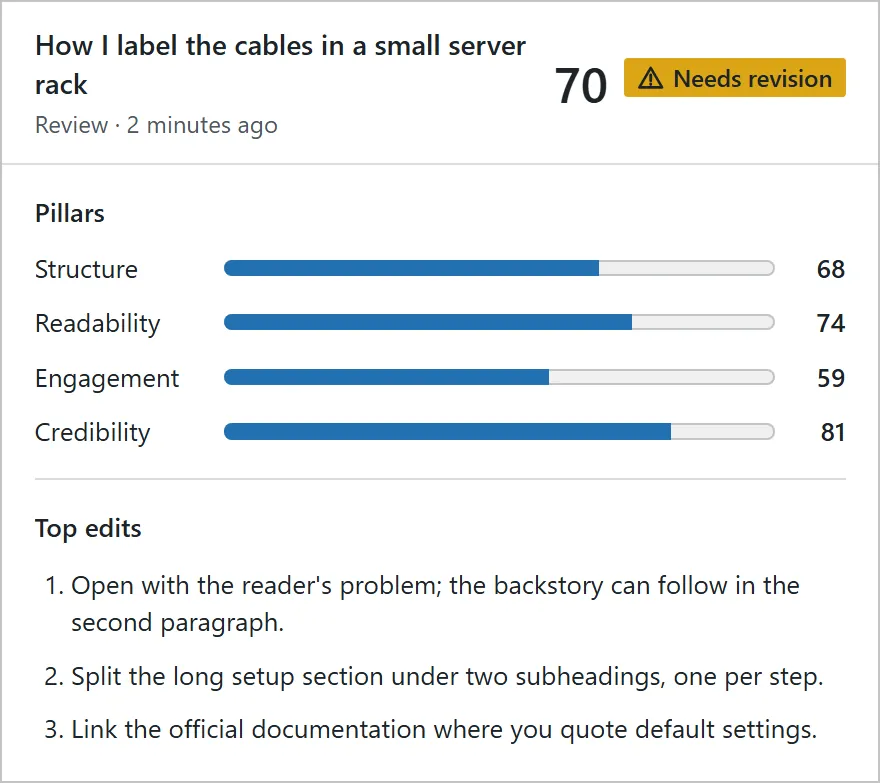
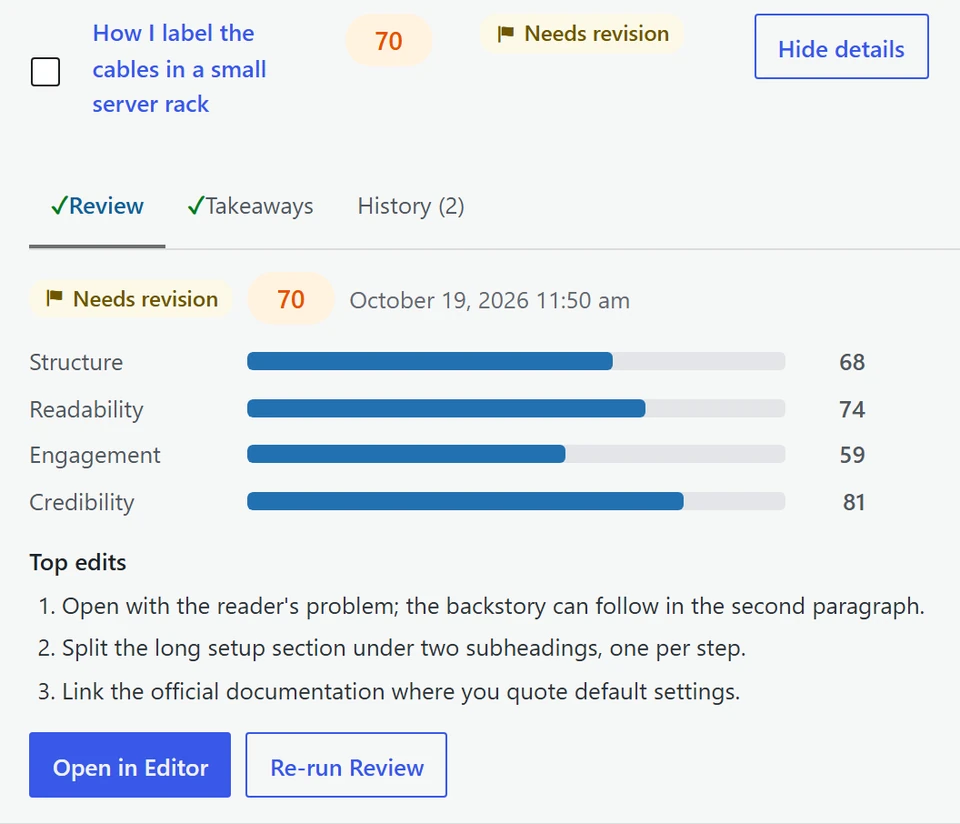
feat: real captures of the plugin from a demo site (story 86, build 3a)
The illustrations give way to captures of the plugin in use, taken on a
demo WordPress site with fictional posts and reviews: the Dashboard (hero,
with its phone crop), a review, the setup guide at step 2 (with its phone
crop) and, new on /docs/, Post Reviews. Every frame reads "Post Quality"
and shows no real post, blog, domain or third-party logo; the captions say
the posts and scores are fictional.

- Sizes, alt text and captions on / and /docs/ match the new files.
- /docs/: "Run your first review" is the guide's third step, not its last.
- The docs page's pictures are capped at 480 px below 760 px, as on the
  home page.
- README: how the captures are made and the real export ratios; the
  "Content Quality" note is gone now that the plugin is renamed (#178 in
  the plugin repository).

diff --git a/index.html b/index.html
@@ -38,7 +38,7 @@ description: Post Quality Manager is a WordPress plugin that scores every post w
 
 <div class="hero-shot">
   <div class="wrap">
-    {% include screenshot.html variant="hero" priority=true src="dashboard" width="2048" height="1097" phone="dashboard-phone" phone_width="800" phone_height="1162" alt="Illustration of the Post Quality Dashboard in WP Admin: average score 71; 3 posts in Major revision, 9 in Needs revision, 14 not analyzed, 22 ready to ship; a Fix next list led by a post scored 42." caption="An illustration of the Dashboard with fictional data." %}
+    {% include screenshot.html variant="hero" priority=true src="dashboard" width="2048" height="1488" phone="dashboard-phone" phone_width="800" phone_height="1114" alt="The Post Quality Dashboard in WP Admin: average score 68; 3 posts in Major revision, 7 in Needs revision, 4 not analyzed, 12 ready to ship; a Fix next list led by a post scored 34." caption="The Dashboard in WP Admin. Demo posts, fictional scores." %}
   </div>
 </div>
 
@@ -54,7 +54,7 @@ description: Post Quality Manager is a WordPress plugin that scores every post w
       </ul>
       <p class="pillars-note">Every post is scored on the same four pillars, then you get the edits that matter most. Your niche comes in through a Blog Profile and your Editorial Standards, not through code.</p>
     </div>
-    {% include screenshot.html src="review" width="880" height="783" alt="Illustration of a review in Post Reviews: score 70, Needs revision; pillar scores Structure 68, Readability 74, Engagement 59, Credibility 81; three top edits, the first: open with the reader's problem." caption="An illustration of a review in Post Reviews. Fictional post." %}
+    {% include screenshot.html src="review" width="960" height="824" alt="A review in Post Reviews: score 70, Needs revision; pillar scores Structure 68, Readability 74, Engagement 59, Credibility 81; three top edits, the first: open with the reader's problem." caption="A review in Post Reviews. Fictional post." %}
   </div>
 </section>
 
@@ -116,7 +116,7 @@ description: Post Quality Manager is a WordPress plugin that scores every post w
       </li>
     </ol>
     <div class="how-shot">
-      {% include screenshot.html src="setup" width="1280" height="708" phone="setup-phone" phone_width="800" phone_height="777" alt="Illustration of the setup guide, step 2 of 5: the n8n address and the n8n API key are connected, and a field asks for the Anthropic API key." caption="An illustration of the setup guide's three values. Fictional values." %}
+      {% include screenshot.html src="setup" width="1440" height="713" phone="setup-phone" phone_width="800" phone_height="1386" alt="The Post Quality setup guide at step 2 of 5, Set up the workflow, its five steps listed beside it: Connect your n8n, Set up the workflow, Run your first review, Choose your Blog Profile, Set your Editorial Standards. The Anthropic API key field is empty." caption="The setup guide's second step: your Anthropic API key. The first asks for your n8n address and an n8n API key." %}
     </div>
     <ol class="flow" role="list" aria-label="Where your content goes">
       <li><span class="flow-node flow-end">Your site</span></li>

diff --git a/assets/css/site.css b/assets/css/site.css
@@ -926,7 +926,7 @@ main [id] { scroll-margin-top: 24px; }
   .menu { grid-area: 1 / 1 / 2 / 3; pointer-events: none; }
   .menu > summary, .menu-panel { pointer-events: auto; }
   .pillars { grid-template-columns: minmax(0, 1fr); gap: 40px; }
-  .pillars .shot { width: 100%; max-width: 480px; margin-left: auto; margin-right: auto; }  /* the 880 px review image, stacked */
+  .pillars .shot { width: 100%; max-width: 480px; margin-left: auto; margin-right: auto; }  /* the 960 px review image, stacked */
   .steps { gap: var(--gap-lg); }
   .packs { gap: var(--gap-md); }
   .pack { padding: var(--card-padding); }
@@ -970,6 +970,7 @@ main [id] { scroll-margin-top: 24px; }
   .need-item p { font-size: var(--fs-body-card-mobile); }
   .steps { grid-template-columns: minmax(0, 1fr); gap: 28px; margin-top: 28px; }
   .how-shot { max-width: 480px; margin-top: 40px; }
+  .text-page .shot { max-width: 480px; margin-left: auto; margin-right: auto; }  /* the docs pictures: the 800 px phone crop at its home-page size */
   .flow { flex-direction: column; align-items: stretch; margin-top: 40px; padding: 16px; }
   .flow li { flex-direction: column; align-items: stretch; }
   .flow-node { text-align: center; }

diff --git a/README.md b/README.md
@@ -7,7 +7,7 @@ The public home of Post Quality Manager, the WordPress plugin: a static site ser
 - `privacy.md`, `terms.md`, `refund.md`, `support.md`: the policies. Their source of truth is `docs/policies/` in the plugin repository; change them there first, then copy here: keep the front matter, drop the source's `# Title` line (the layout prints `page.title` as the h1).
 - `_layouts/default.html` (every page: skip link, header, `main`, footer) and `_layouts/page.html` (text pages: the h1 and a 720 px column; `icon: true` in the front matter adds the 64 px icon, used by the 404).
 - `_includes/`: `head.html` (SEO tags, the stylesheet, the favicon, and on the home page a `SoftwareApplication` JSON-LD), `header.html` (lockup B on the band strip, the Main nav, the Menu below 1000 px), `footer.html`, `lockup.html` (the icon plus the name as live text, variants B and D), `site-action.html` and `interest-href.html` (the site-wide action and the interest email), `screenshot.html` (a framed, captioned plugin picture), `icons.html` (inline SVG line icons).
-- `assets/css/site.css`: the design tokens as CSS custom properties and every component, from the design spine in the plugin repository (story 86). `assets/img/`: the plugin pictures, each as WebP with a PNG fallback, under 250 KB. Today they are illustrations with fictional data, captioned as such; real captures replace them under the same names.
+- `assets/css/site.css`: the design tokens as CSS custom properties and every component, from the design spine in the plugin repository (story 86). `assets/img/`: the plugin pictures, each as WebP with a PNG fallback, under 250 KB: captures of the plugin on a demo site, with fictional posts and scores, captioned as such (see Captures).
 - `assets/icon.svg`, `assets/icon-128x128.png`: the brand icon (favicon, lockup, 404). Never edited here.
 - `assets/og-card.png`: the sharing card (1200 × 630), shown when a page's link is shared. Its source is `_tools/og-card.html`, which Jekyll does not publish (folders starting with `_`).
 - `_includes/signature.html`: the author's signature at the foot of every page, linking to heimvin.me. Its glyph is the Material Symbols "fingerprint" icon by Google, under the Apache License 2.0 (https://www.apache.org/licenses/LICENSE-2.0).
@@ -16,11 +16,13 @@ The public home of Post Quality Manager, the WordPress plugin: a static site ser
 
 **Launch flag.** `_config.yml` carries `launched: false`. Until launch, every action is the interest email (`mailto:` with a fixed subject; its body names the page it was sent from) and no install or buy link renders. At the release, one edit to `_config.yml`: `launched: true` and the five values under it (`version`, `version_date`, `tested_up_to`, `wporg_url`, `changelog_url`). Then the header, hero, Free card and closing action lead to **Get the free plugin**, the hero shows the requirement line and the version line, What you need ends with **Install from WordPress.org**, and the documentation's Getting started opens with it. `/pricing/` shows the currency switch (USD, EUR, CHF; radio buttons and CSS `:has()`, no script, nothing stored, USD on every load; without `:has()` all three currencies show) and one **Buy** link per pack to Freemius's hosted checkout; the documentation's cost answer drops "A worked cost example is coming.", so the example (plugin story 49) belongs there by then; and the home page's `SoftwareApplication` JSON-LD gains its `offers` (Free, then Pro). Check the flipped state locally first, with the local build's settings and an overlay config: `JEKYLL_ENV=production PAGES_REPO_NWO=vincentheimann/postquality.com bundle exec jekyll build --baseurl "" --config _config.yml,<a file with launched: true and the five values>`.
 
-**Documentation drift.** `docs.md` restates the plugin: its requirements, the setup guide's labels and steps, the manual setup, and the FAQ answers come from the plugin repository (`post-quality-manager/readme.txt`, `README.md`, the setup guide's strings in `src/setup/` and `src/n8n-connection/`, the n8n Workflow page, `docs/policies/`). Before publishing a change to either side, compare them: each fact sentence in `docs.md` is paired with its source sentence in the plugin, both must be found word for word, and every bold label in `docs.md` must be one of the plugin's own interface strings (or a WordPress screen, named as such). The plugin's admin menu still reads "Content Quality" until its naming sweep (plugin story 41); the page already says **Post Quality → n8n Workflow**. The pricing FAQ's "What counts as a site?" answers in plain words with every fact of section 3 of the terms, and links to it: change the terms first.
+**Documentation drift.** `docs.md` restates the plugin: its requirements, the setup guide's labels and steps, the manual setup, and the FAQ answers come from the plugin repository (`post-quality-manager/readme.txt`, `README.md`, the setup guide's strings in `src/setup/` and `src/n8n-connection/`, the n8n Workflow page, `docs/policies/`). Before publishing a change to either side, compare them: each fact sentence in `docs.md` is paired with its source sentence in the plugin, both must be found word for word, and every bold label in `docs.md` must be one of the plugin's own interface strings (or a WordPress screen, named as such). The pricing FAQ's "What counts as a site?" answers in plain words with every fact of section 3 of the terms, and links to it: change the terms first.
 
 **Discoverability.** `jekyll-seo-tag` writes each page's `<title>`, description, canonical URL, Open Graph and Twitter tags and a JSON-LD block (`WebSite` on the home page, `WebPage` on the others). Every page carries a one-sentence `description:` in its front matter, unique to it (the site's `description` in `_config.yml` is the tagline, used by the footer and the home page's JSON-LD); `tagline` in `_config.yml` completes the home page's `<title>`. The `defaults` in `_config.yml` give every page the sharing card as its image (a plain path), which also makes the Twitter card the large one; `head.html` adds the card's size and its alt text, built from the site's title and description. `head.html` also adds the `SoftwareApplication` JSON-LD on the home page; its `offers` (the free plugin at 0, then Pro's 1-site price in USD, EUR and CHF from `_data/pricing.yml`) appear only with `launched: true`.
 
 **Sharing card.** Rendered once, never by GitHub Pages (it does no image processing). After a change to `_tools/og-card.html` (the tagline, the lockup), render it at 1200 × 630 with headless Edge or Chrome and its own throwaway profile, for example `msedge --headless=new --hide-scrollbars --user-data-dir=<a new folder> --window-size=1200,630 --screenshot=<out.png> <file URL of _tools/og-card.html>`, check the picture, and save it as `assets/og-card.png` (under 250 KB). Platforms cache the card; a changed card may show only after their cache expires.
+
+**Captures.** The six plugin pictures (the Dashboard and its phone crop, a review, the setup guide and its phone crop, Post Reviews) come from a demo WordPress site on the author's machine, never from a real blog: the plugin's Free build, about 25 fictional posts and their reviews seeded with WP-CLI, no n8n and no API key. The setup guide is captured at its second step, Set up the workflow, before anything is entered (its first step names n8n Cloud, which the site leaves out until that path is tested); the other screens need a webhook URL saved, a placeholder that is never called. Each screen is captured with headless Edge at twice its size, with the WordPress admin bar and footer hidden by a stylesheet added at capture time, and cropped to its frame. Export each as PNG and WebP, each under 250 KB, at about twice the width it is shown at: `dashboard` 2048 px for the 1024 px hero frame, `setup` and `review-list` 1440 px for the 680 to 720 px columns, `review` 960 px for the pillars column of about 496 px (1.94×), the phone crops 800 px for their 480 px cap (about 1.67×); then update the include's `width` and `height` and the figures in its alt text. Before a capture, check that every screen reads "Post Quality" and shows no real post, blog or domain and no third-party logo.
 
 `theme: null` keeps GitHub Pages from applying its default theme (Primer) on top of the site's own layouts.
 

diff --git a/docs.md b/docs.md
@@ -51,9 +51,9 @@ Once it is installed and active, open **Post Quality → n8n Workflow** and clic
 - **Connect your n8n:** your n8n address and an n8n API key.
 - **Set up the workflow:** your Anthropic API key. The plugin checks it once with Anthropic and writes it into an n8n credential; your site never stores it.
 
-{% include screenshot.html src="setup" width="1280" height="708" phone="setup-phone" phone_width="800" phone_height="777" alt="Illustration of the setup guide, step 2 of 5: the n8n address and the n8n API key are connected, and a field asks for the Anthropic API key." caption="An illustration of the setup guide's three values. Fictional values." %}
+{% include screenshot.html src="setup" width="1440" height="713" phone="setup-phone" phone_width="800" phone_height="1386" alt="The Post Quality setup guide at step 2 of 5, Set up the workflow, its five steps listed beside it: Connect your n8n, Set up the workflow, Run your first review, Choose your Blog Profile, Set your Editorial Standards. The Anthropic API key field is empty." caption="The setup guide's second step: your Anthropic API key. The first asks for your n8n address and an n8n API key." %}
 
-The guide then creates the workflow and its credentials in n8n, publishes the workflow and tests the connection both ways. In its last step, **Run your first review**: pick a published post and click **Run Review**.
+The guide then creates the workflow and its credentials in n8n, publishes the workflow and tests the connection both ways. In its third step, **Run your first review**: pick a published post and click **Run Review**.
 
 The plugin keeps the n8n API key on your site to set up and update the workflow, so create one for this site alone, with an expiration date (in n8n: Settings → n8n API). Rather not? [Set up by hand](#set-up-by-hand).
 
@@ -79,6 +79,8 @@ The guide then runs your first review.
 - **Insert into Post** puts the suggested Takeaways or Sources into the post with one click, as a plain list or in a pattern you design in Appearance → Patterns.
 - **Automated Reviews** (Pro) scores posts on a schedule, by age and score.
 - **Roles** (Pro) sets what each WordPress role can do in the plugin.
+
+{% include screenshot.html src="review-list" width="1440" height="911" alt="Post Reviews in WP Admin: status filters All 26, Ready to ship 12, Needs revision 7, Major revision 3, Not analyzed 4; a table of posts with each one's score, its status as an icon, a label and a colour, and the date of its last review." caption="Post Reviews in WP Admin. Demo posts, fictional scores." %}
 
 ## Upgrade to Pro {#upgrade-to-pro}
 
